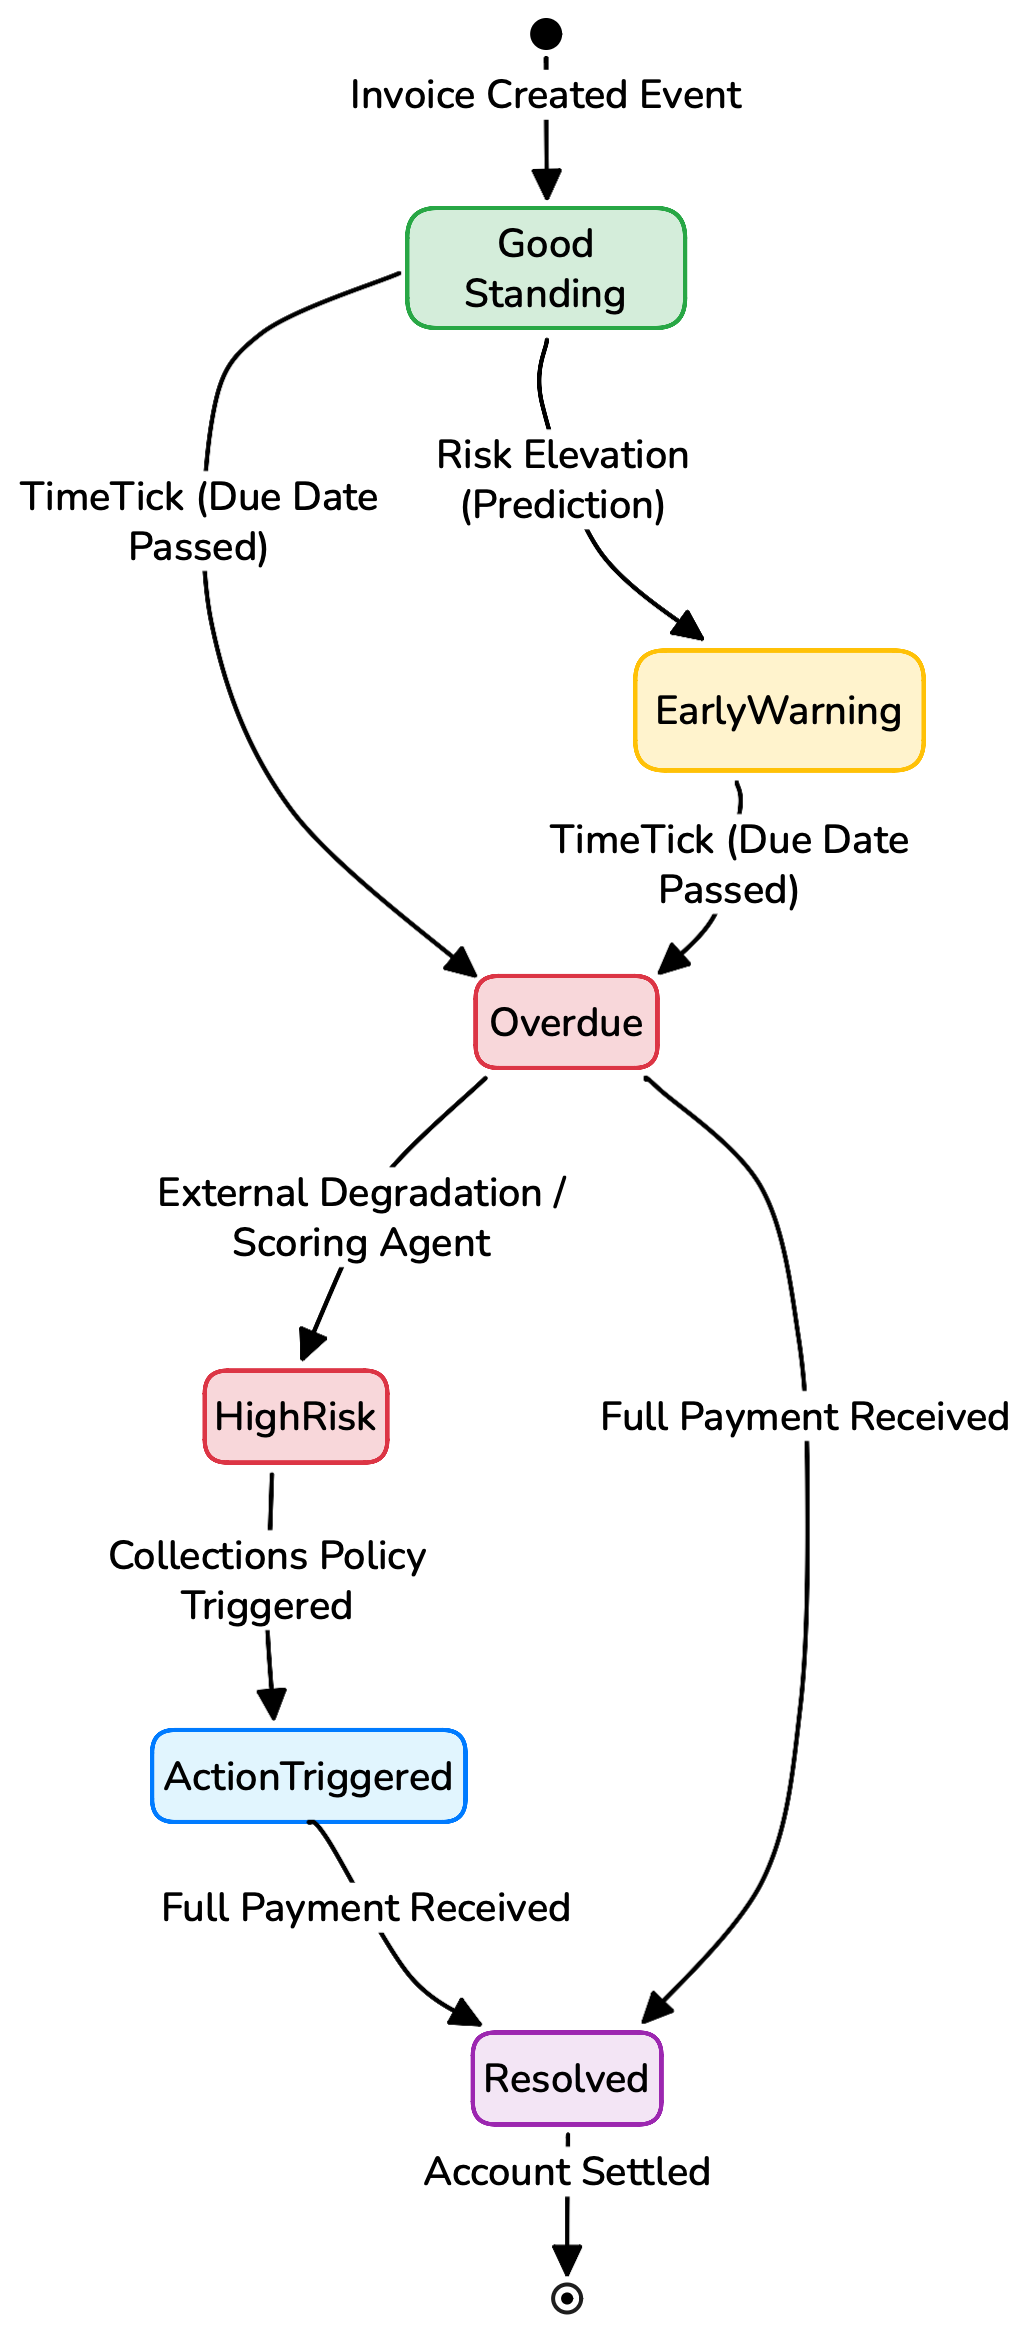
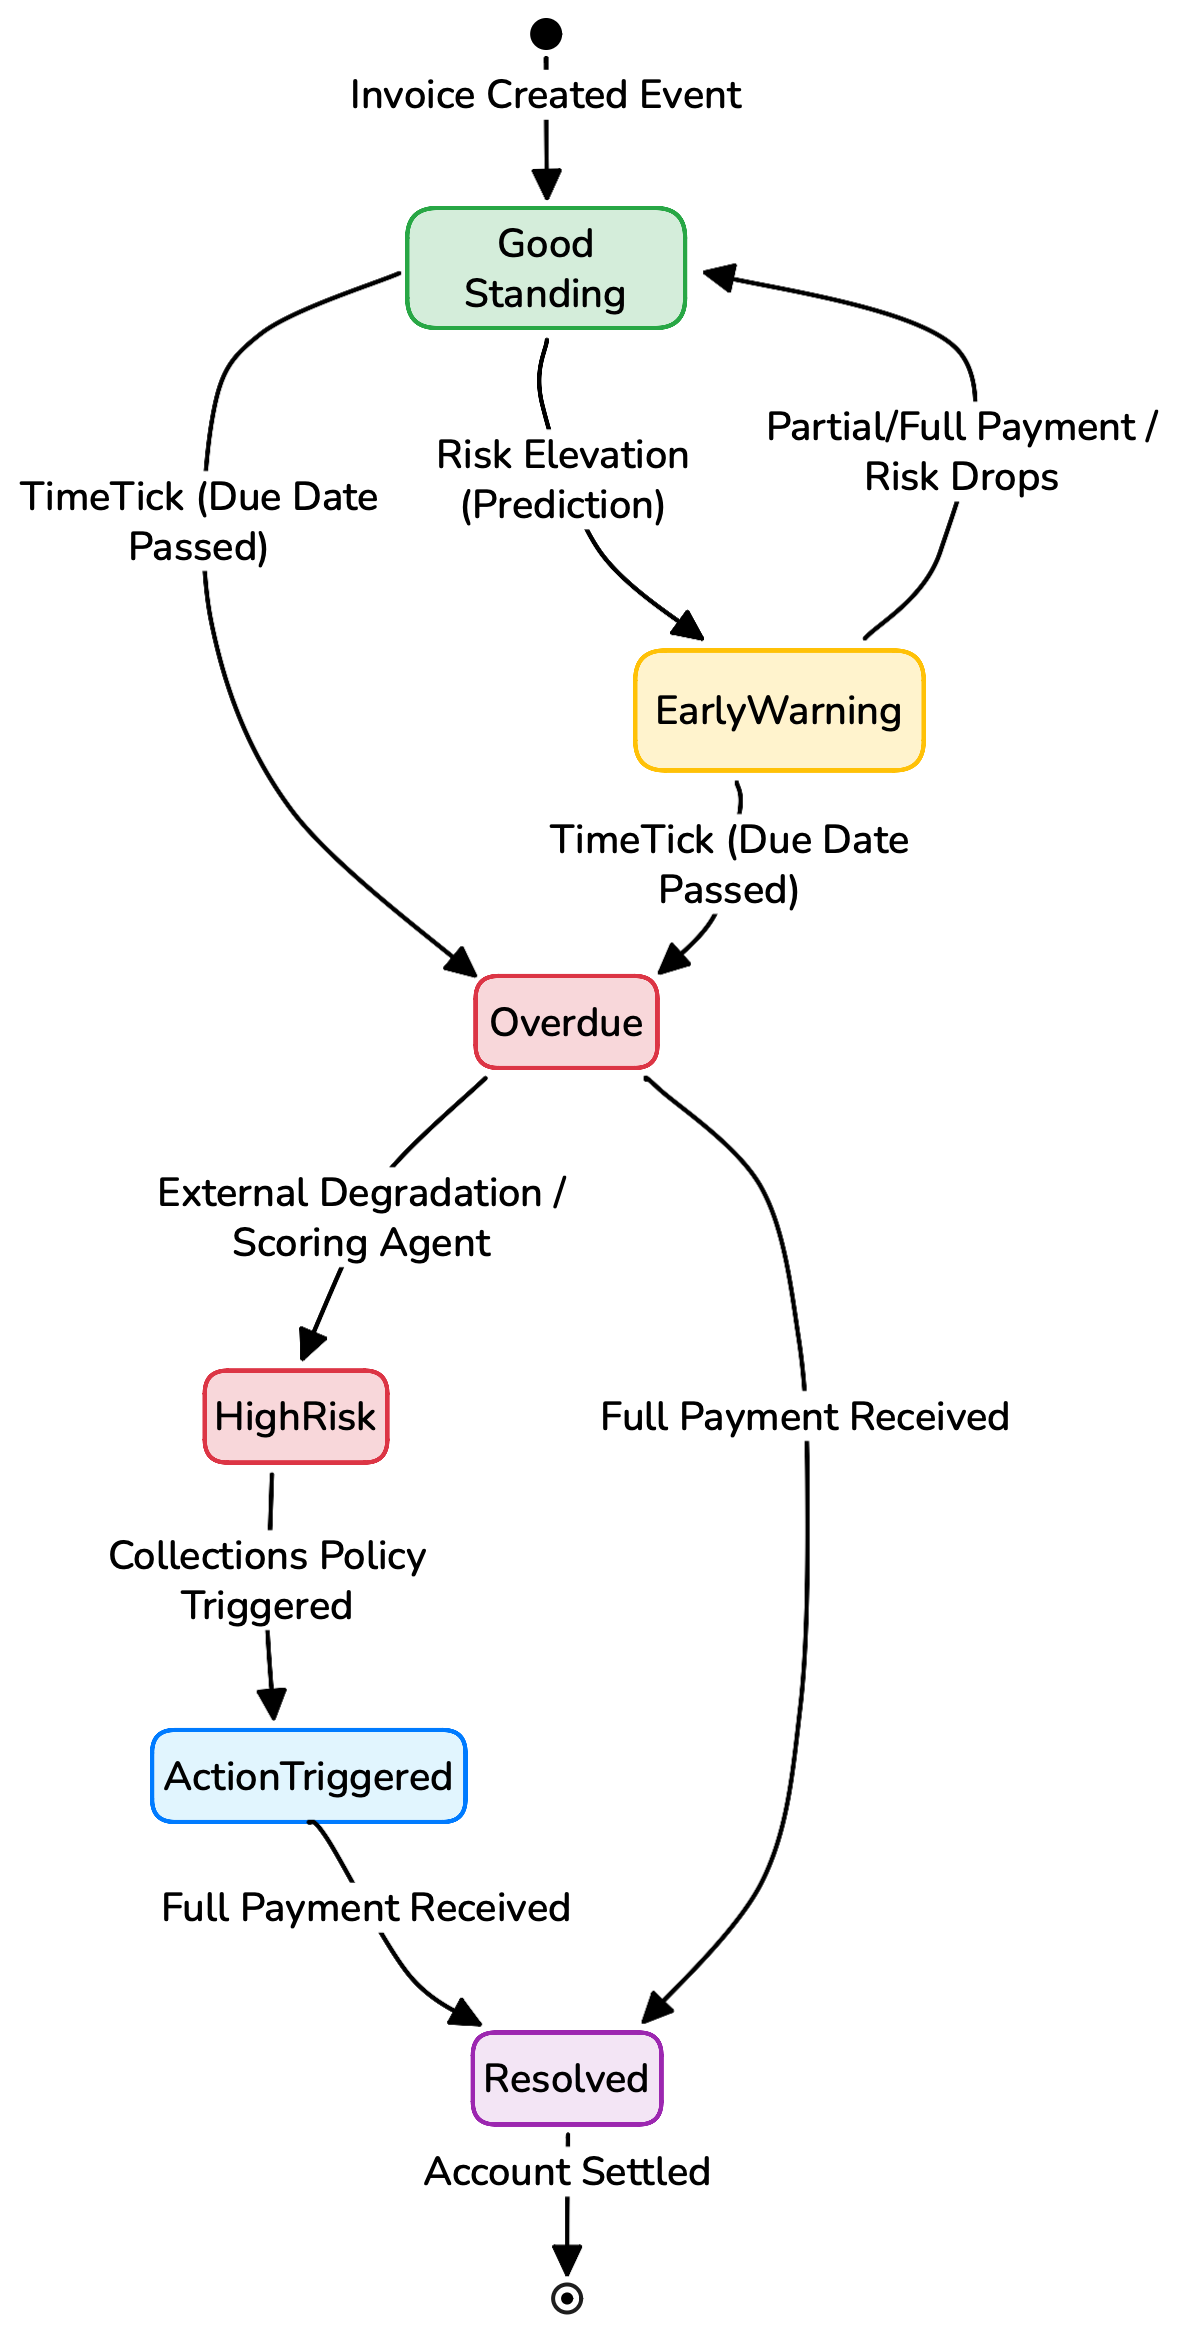
Everything except for CO mapping done

diff --git a/report-assets/the_report/main.tex b/report-assets/the_report/main.tex
@@ -193,7 +193,7 @@
   showstringspaces=false
 }
 
-\newcolumntype{L}[1]{>{\justifying\arraybackslash\hspace{0pt}}p{#1}}
+\newcolumntype{L}[1]{>{\justifying\parindent=0pt\arraybackslash\hspace{0pt}}p{#1}}
 
 \begin{document}
 
@@ -221,7 +221,7 @@
     {\textcolor[HTML]{FF0000}{\textbf{NITIN BHARADWAJ M V S(1AM23CS125)}}}\\
     {\textcolor[HTML]{FF0000}{\textbf{NIKHIL NAGENDRA(1AM23CS120)}}}\\
     {\textcolor[HTML]{FF0000}{\textbf{JOHAN K GEORGE(1AM23CS075)}}}\\
-    {\textcolor[HTML]{FF0000}{\textbf{PRASANNA ACHARYA(1AM23CS149)}}}\\
+    {\textcolor[HTML]{FF0000}{\textbf{PRASANNA B ACHARYA(1AM23CS149)}}}\\
     \vspace{1.0cm}
 
     Under the Guidance of:\\[0.1cm]
@@ -264,7 +264,7 @@
 
 \doublespacing
 
-Certified that the project report entitled \textbf{\textcolor[HTML]{6F2C0C}{``ACIS-X: AUTOMATED CREDIT CONTROL SYSTEM''}} carried out by \textbf{NITIN BHARADWAJ M V S(1AM23CS125)}, \textbf{NIKHIL NAGENDRA(1AM23CS120)},\textbf{ JOHAN K GEORGE(1AM23CS075)}, and \textbf{PRASANNA ACHARYA(1AM23CS149)}, bonafide students of AMC Engineering College in partial fulfillment for the award of Bachelor of Engineering in Computer Science \& Engineering of the Visvesvaraya Technological University, Belgaum during the year 2026-27. It is certified that all corrections/suggestions indicated for Internal Assessment have been incorporated in the Report. The project report has been approved as it satisfies the academic requirements in respect of Project work prescribed for the said degree.\\
+Certified that the project report entitled \textbf{\textcolor[HTML]{6F2C0C}{``ACIS-X: AUTOMATED CREDIT CONTROL SYSTEM''}} carried out by \textbf{NITIN BHARADWAJ M V S (1AM23CS125)}, \textbf{NIKHIL NAGENDRA (1AM23CS120)},\textbf{ JOHAN K GEORGE (1AM23CS075)}, and \textbf{PRASANNA B ACHARYA (1AM23CS149)}, bonafide students of AMC Engineering College in partial fulfillment for the award of Bachelor of Engineering in Computer Science \& Engineering of the Visvesvaraya Technological University, Belgaum during the year 2026-27. It is certified that all corrections/suggestions indicated for Internal Assessment have been incorporated in the Report. The project report has been approved as it satisfies the academic requirements in respect of Project work prescribed for the said degree.\\
 
 \vspace{1.5cm}
 \noindent
@@ -330,7 +330,7 @@ We the undersigned students of 8th semester Department of Computer Science \& En
         NITIN BHARADWAJ M V S & 1AM23CS125 & \\
         NIKHIL NAGENDRA & 1AM23CS120 & \\
         JOHAN K GEORGE & 1AM23CS075 & \\
-        PRASANNA ACHARYA & 1AM23CS149 & \\
+        PRASANNA B ACHARYA & 1AM23CS149 & \\
     \end{tabular*}
 \end{table}
 
@@ -358,10 +358,14 @@ We are grateful to our guide \textbf{Ms. Pallavi K V} Asst. Prof., Department of
 
 Last but not the least, we wish to thank all the teaching \& non-teaching staffs of department of Computer Science and Engineering, for their support, patience and endurance shown during the preparation of this project report.\\
 
-\vspace{1.5cm}
+\vspace{1cm}
 
-\textbf{JOHAN GEORGE}\\
-\textbf{YOUR-USN}
+{\raggedleft 
+\textbf{NITIN BHARADWAJ M V S (1AM23CS125)}\\
+\textbf{NIKHIL NAGENDRA (1AM23CS120)}\\
+\textbf{JOHAN K GEORGE (1AM23CS075)}\\
+\textbf{PRASANNA B ACHARYA (1AM23CS149)} 
+\par}
 
 
 \pagebreak
@@ -436,8 +440,6 @@ From an analytical perspective, the platform transforms a basic receivables pipe
 
 A key design characteristic of ACIS-X is role separation among agents. Context-building components, such as customer profile and enrichment agents, gather and organize information, while decision-authority components, such as risk scoring and collections agents, publish final actionable outcomes. This separation improves maintainability, traceability, and operational clarity.
 
-Overall, ACIS-X is positioned as a production-oriented intelligent collections framework intended to improve timeliness of receivables decisions, strengthen risk visibility, and reduce manual coordination overhead in credit-control operations.
-
 \section{Objectives}
 The project objectives of ACIS-X are to build a reliable and extensible platform for intelligent receivables operations with real-time risk awareness and actionable outcomes. The primary objectives are:
 
@@ -475,16 +477,7 @@ The project objectives of ACIS-X are to build a reliable and extensible platform
 \subsection{Purpose}
 The purpose of ACIS-X is to provide a technically grounded and operationally practical framework for proactive collections intelligence. Rather than reacting after receivables have materially aged, the system is designed to surface emerging risk earlier, link that risk to customer and invoice context, and trigger consistent action paths through policy and collections workflows.
 
-This purpose is achieved through a layered architecture where each agent contributes a well-defined transformation:
-\begin{itemize}[itemsep=2pt]
-    \item raw financial events are converted into behavior metrics,
-    \item behavior metrics are enriched with external context,
-    \item enriched context is converted into aggregate and invoice-level risk outputs,
-    \item risk outputs are converted into collections actions,
-    \item platform telemetry is converted into operational recovery decisions.
-\end{itemize}
-
-As a result, ACIS-X is not only a data-processing system but also a decision-support and execution pipeline for receivables risk management.
+This purpose is achieved through a layered architecture where each agent contributes a well-defined transformation. As a result, ACIS-X acts as both a data-processing system and an execution pipeline for receivables risk management.
 
 \subsection{Scope}
 The current implementation scope of ACIS-X includes end-to-end event orchestration for intelligent collections with the following technical boundaries and capabilities:
@@ -860,19 +853,7 @@ Under this design, ACIS-X provides four concrete advantages relative to fragment
     \item \textbf{Governance readiness:} reason-coded outputs and structured event histories support audit and improvement cycles.
 \end{itemize}
 
-Beyond these advantages, the architecture supports continuous learning from outcomes. As interventions succeed or fail, feedback events can be incorporated into periodic model and policy updates, closing the loop between analytics and operational execution.
-
-An indicative closed-loop operating cycle for ACIS-X is:
-\begin{enumerate}[itemsep=2pt]
-    \item ingest and normalize events,
-    \item update account state and compute features,
-    \item generate risk and policy-informed decisions,
-    \item execute prioritized actions,
-    \item capture outcome and process telemetry,
-    \item recalibrate models and thresholds on governed cadence.
-\end{enumerate}
-
-This cycle ensures that the system remains adaptive under changing behavior patterns while preserving explainability and operational control.
+Beyond these advantages, the architecture supports continuous learning from outcomes, closing the loop between analytics and operational execution. This ensures the system remains adaptive under changing behavior patterns while preserving explainability.
 
 \chapter{REQUIREMENT ENGINEERING}
 
@@ -1101,11 +1082,11 @@ The schedule in Table~\ref{tab:acis_project_schedule} outlines the planned timel
     \hline
     Phase 1 & Week 3 & Core backend pipeline refinement, table/LaTeX stabilization, chapter updates. & Completed \\
     \hline
-    Phase 2 & Week 4 & Frontend planning finalization, UI wireframe selection, API binding contracts. & In Progress \\
+    Phase 2 & Week 4 & Frontend planning finalization, UI wireframe selection, API binding contracts. & Completed \\
     \hline
-    Phase 2 & Week 5 & Frontend implementation (dashboards, risk/action views, status panels). & Pending \\
+    Phase 2 & Week 5 & Frontend implementation (dashboards, risk/action views, status panels). & In Progress \\
     \hline
-    Phase 3 & Week 6 & End-to-end integration: frontend with event and persistence outputs. & Pending \\
+    Phase 3 & Week 6 & End-to-end integration: frontend with event and persistence outputs. & In Progress \\
     \hline
     Phase 3 & Week 7 & System validation, performance checks, bug fixes, UX improvements. & Pending \\
     \hline
@@ -1370,6 +1351,14 @@ The collections action algorithm converts final risk output into an operational 
     \item Apply duplicate prevention and cooldown rules to avoid repeated action for the same customer or invoice.
     \item Persist the collections action and publish it for dashboard visibility.
     \item Monitor agent heartbeats, topic lag, failed events, and runtime errors.
+    \item Trigger recovery actions such as restart, re-registration, rebalancing, or dead-letter inspection when unhealthy behavior is detected.
+\end{enumerate}
+
+\bibliographystyle{ieeetr}
+\bibliography{references}
+
+\end{document}
+gent heartbeats, topic lag, failed events, and runtime errors.
     \item Trigger recovery actions such as restart, re-registration, rebalancing, or dead-letter inspection when unhealthy behavior is detected.
 \end{enumerate}
 